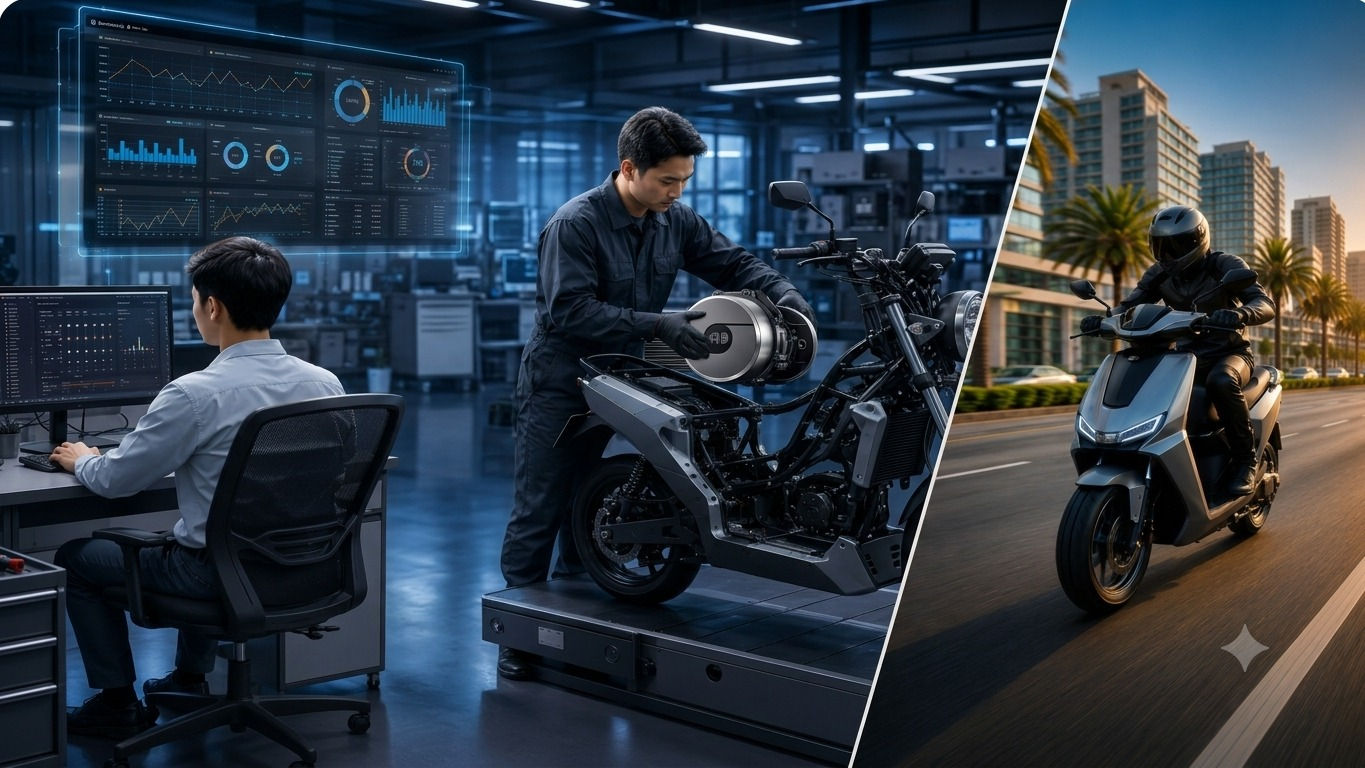
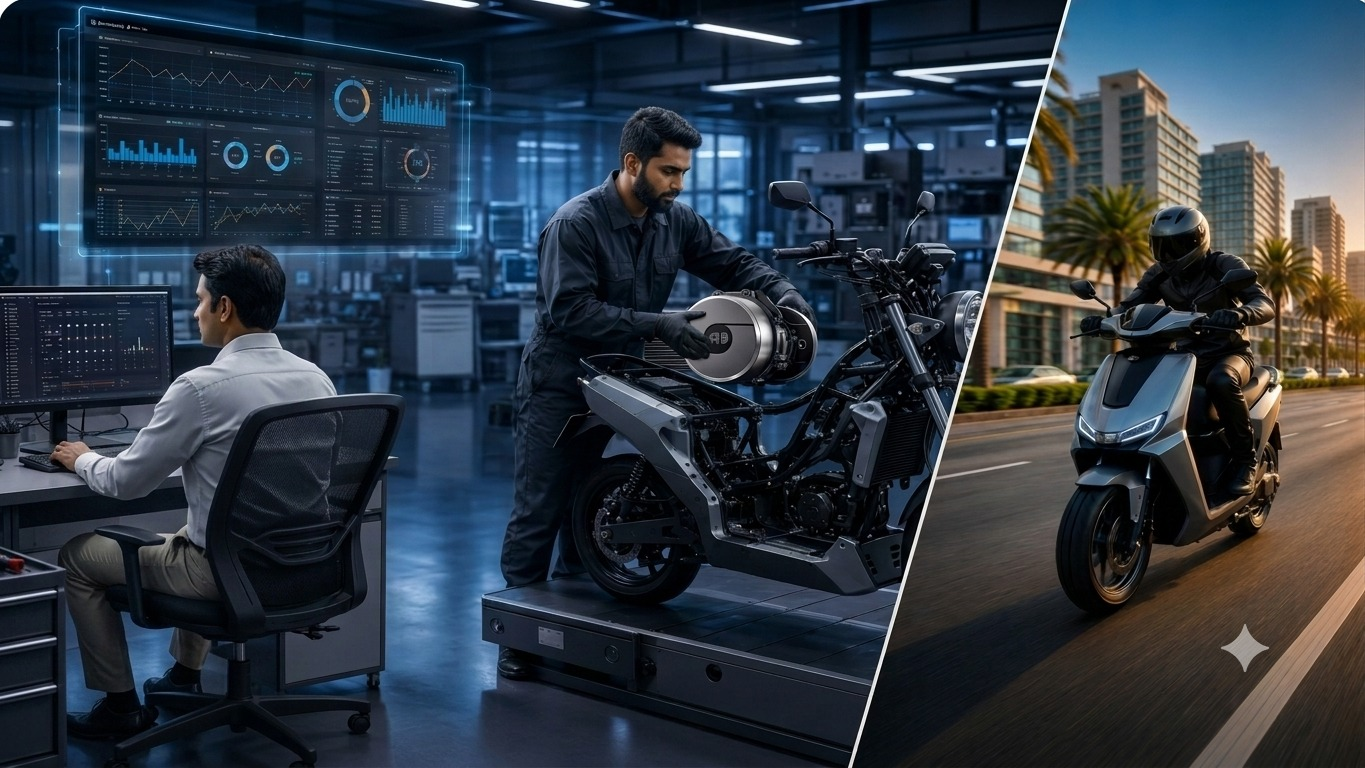
home page fully 3

Changed region(s): [[0.0308, 0.2812, 0.2769, 0.9375], [0.4308, 0.125, 0.5231, 0.2812], [0.8923, 0.8125, 0.9231, 0.875]]

diff --git a/src/app/components/HeroSection.tsx b/src/app/components/HeroSection.tsx
@@ -53,9 +53,7 @@ export function HeroSection() {
   transition={{ delay: 0.4 }}
   className="text-lg md:text-xl text-white/70 leading-relaxed max-w-xl tracking-wide"
 >
-  We design and customize high-performance EV motors and intelligent motor
-  controllers, empowering next-generation electric vehicles through
-  innovation, precision, and sustainable technology.
+  We engineer high-performance EV motors and intelligent motor controllers for the next generation of electric mobility.
 </motion.p>
 
             <motion.div
